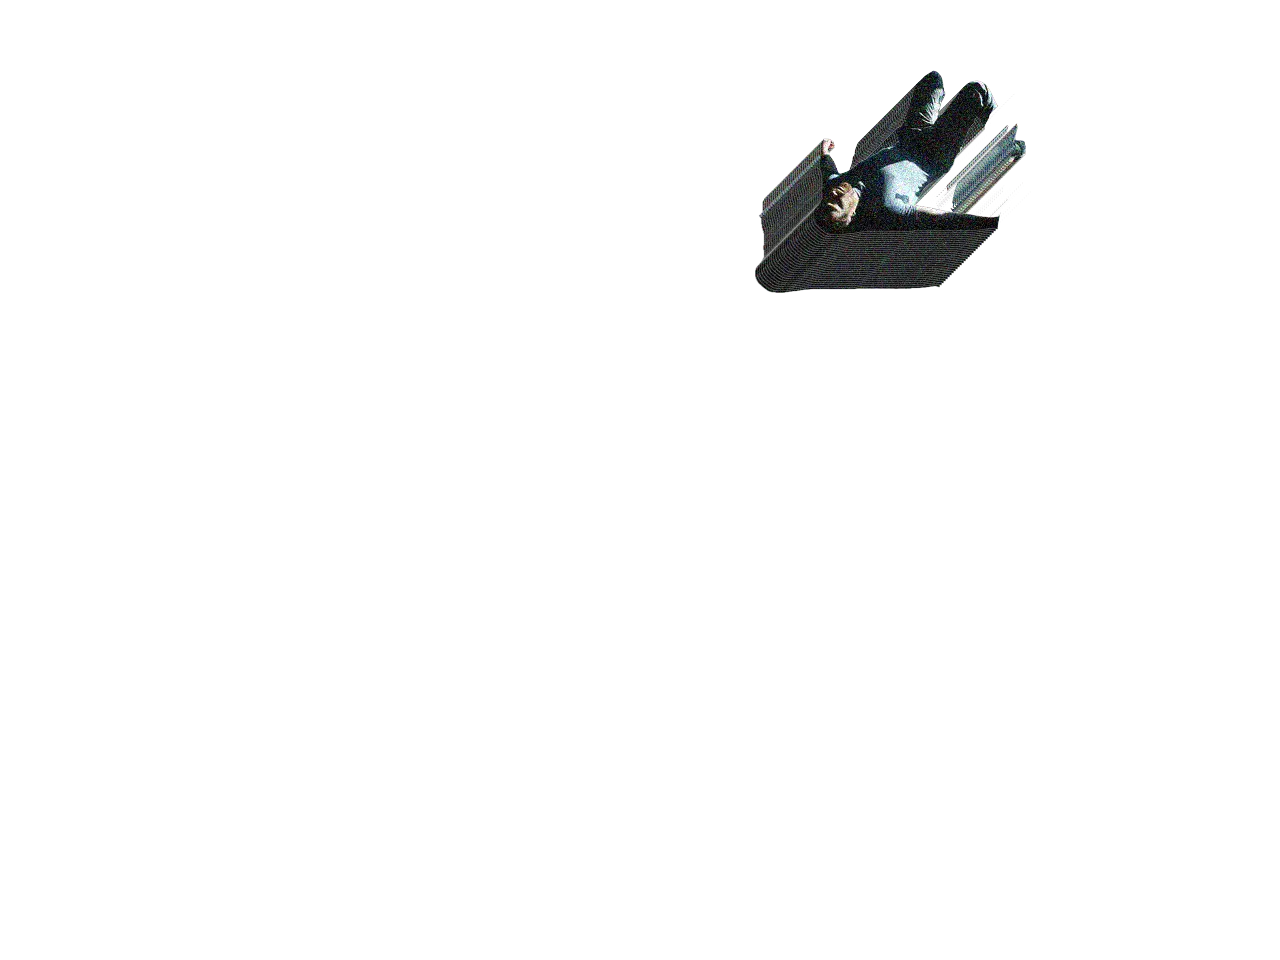
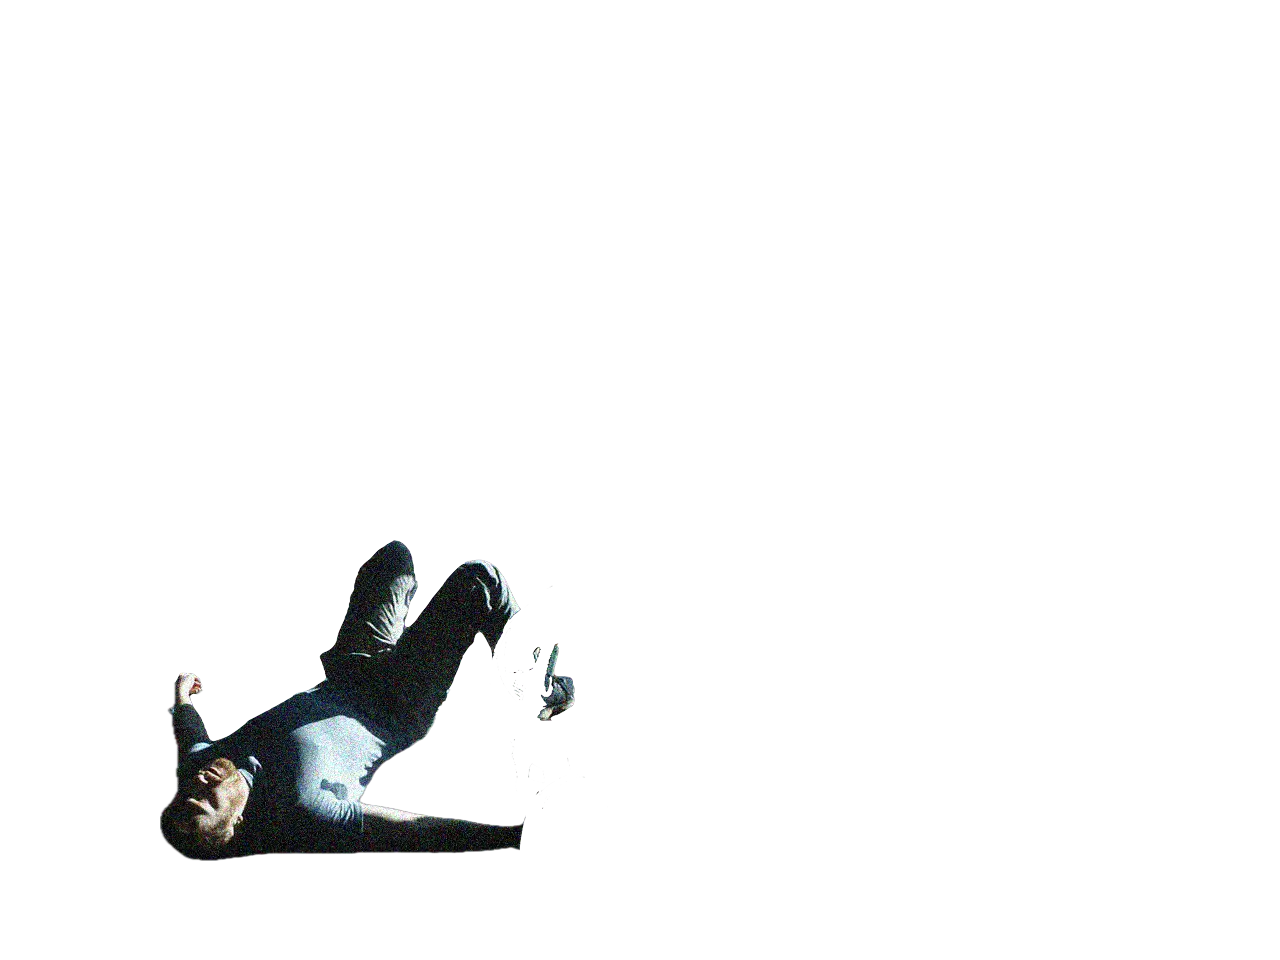
Fix trails: match start positions, bigger offsets, momentum, clean person
- Trail start positions match their collage counterparts
- Bigger offsets (1.8/1.4 butterfly, 1.5/1.5 person) for visible spread
- Momentum allowed during trail stamps (only killed for normal items)
- Person.webp regenerated clean (no baked-in stamps)
- Trail cooldown reduced to 30ms for rapid stamping

Changed region(s): [[0.125, 0.5625, 0.4688, 0.9062], [0.5938, 0.0625, 0.8125, 0.3125]]

diff --git a/lib/use-scroll-hijack.ts b/lib/use-scroll-hijack.ts
@@ -100,15 +100,6 @@ export function useScrollHijack() {
       let next: number;
 
       if (isCollageLayer(selectionIndex)) {
-        momentumRef.current = 0;
-        if (momentumTimer.current) {
-          clearInterval(momentumTimer.current);
-          momentumTimer.current = null;
-        }
-        animatingRef.current = true;
-        next = Math.min(drawnSegments + 1, pointCount);
-
-        // Determine if the current tick lands on a trail item for shorter cooldown
         const layer = ALBUM_DATA.layers[selectionIndex];
         const items = layer.collageItems!;
         let tickAcc = 0;
@@ -121,7 +112,18 @@ export function useScrollHijack() {
           }
           tickAcc += weight;
         }
-        setTimeout(() => { animatingRef.current = false; }, isTrailTick ? 50 : 400);
+
+        if (!isTrailTick) {
+          momentumRef.current = 0;
+          if (momentumTimer.current) {
+            clearInterval(momentumTimer.current);
+            momentumTimer.current = null;
+          }
+        }
+
+        animatingRef.current = true;
+        next = Math.min(drawnSegments + 1, pointCount);
+        setTimeout(() => { animatingRef.current = false; }, isTrailTick ? 30 : 400);
       } else {
         const progress = drawnSegments / pointCount;
         const remaining = 1 - (drawnSegments + steps) / pointCount;

diff --git a/lib/album-data.ts b/lib/album-data.ts
@@ -430,22 +430,22 @@ export const ALBUM_DATA: AlbumSequence = {
         {
           imageUrl: "/images/collage/butterfly2.webp",
           points: [
-            { x: 45, y: 58 },
-            { x: 70, y: 58 },
-            { x: 70, y: 79 },
-            { x: 45, y: 79 },
+            { x: 13, y: 21 },
+            { x: 43, y: 21 },
+            { x: 43, y: 43 },
+            { x: 13, y: 43 },
           ],
-          trail: { dx: 0.8, dy: 0.6, count: 30 },
+          trail: { dx: 1.8, dy: 1.4, count: 30 },
         },
         {
           imageUrl: "/images/collage/person2.webp",
           points: [
-            { x: 58, y: 6 },
-            { x: 83, y: 6 },
-            { x: 83, y: 32 },
-            { x: 58, y: 32 },
+            { x: 11, y: 55 },
+            { x: 49, y: 55 },
+            { x: 49, y: 91 },
+            { x: 11, y: 91 },
           ],
-          trail: { dx: 0.7, dy: -0.7, count: 30 },
+          trail: { dx: 1.5, dy: -1.5, count: 30 },
         },
       ],
     },
